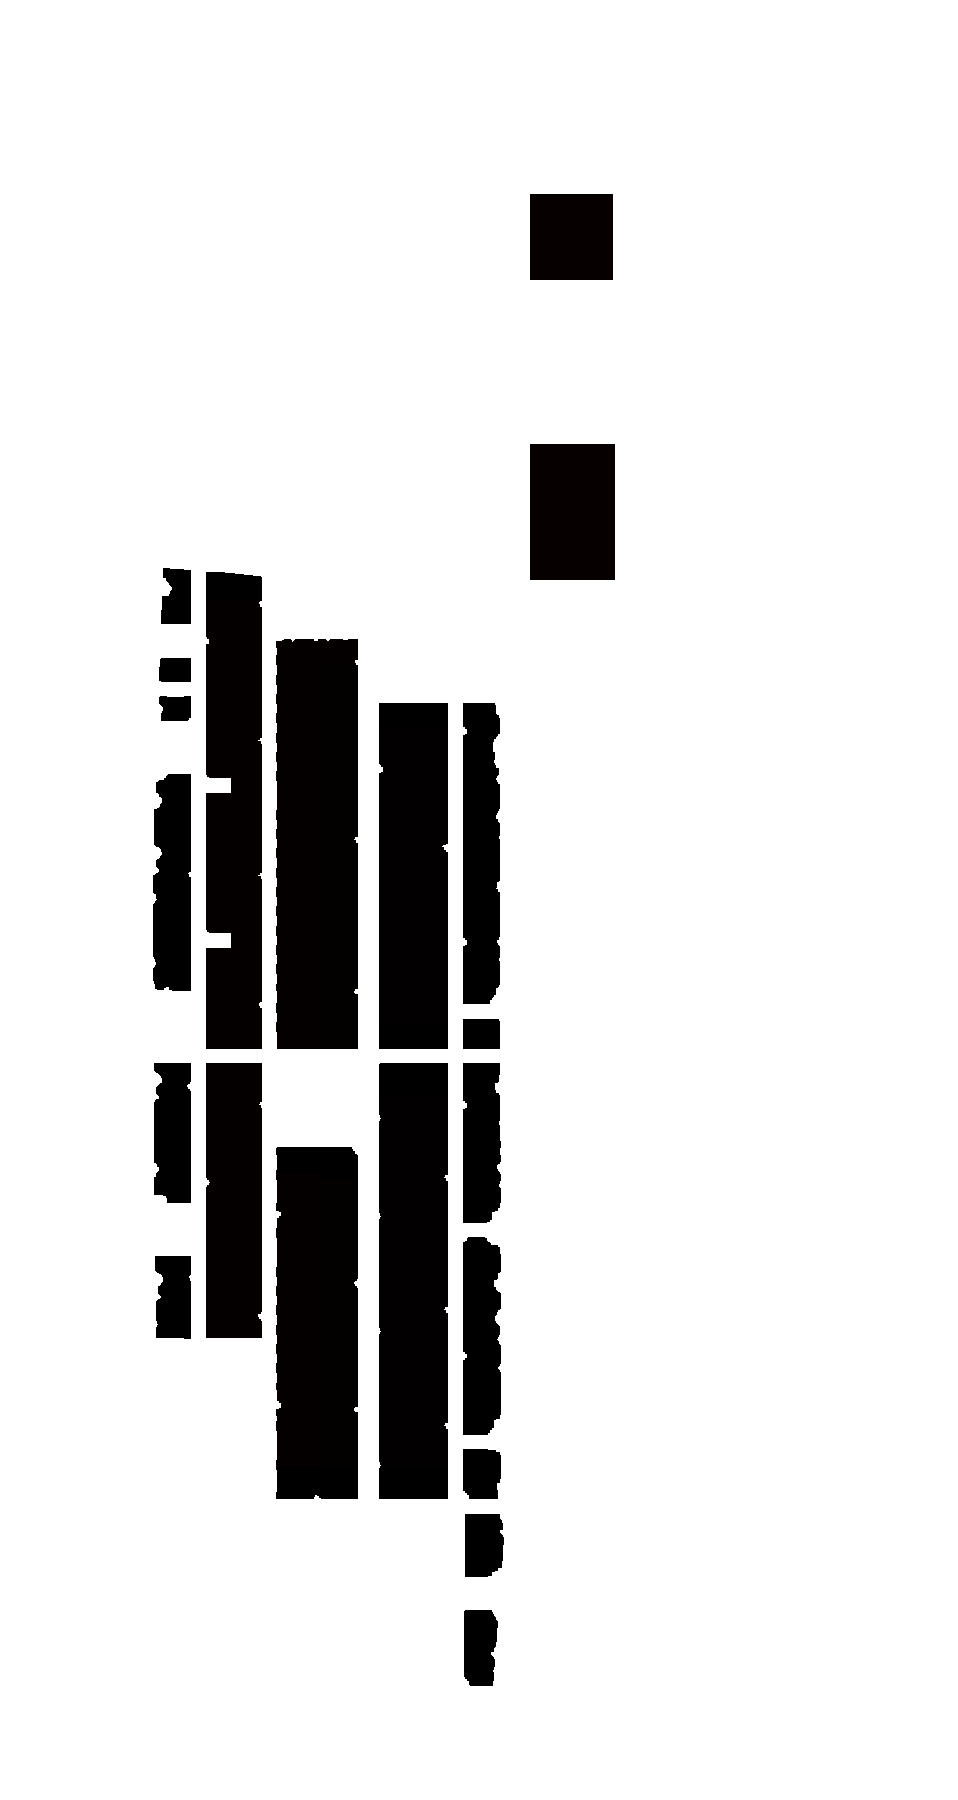
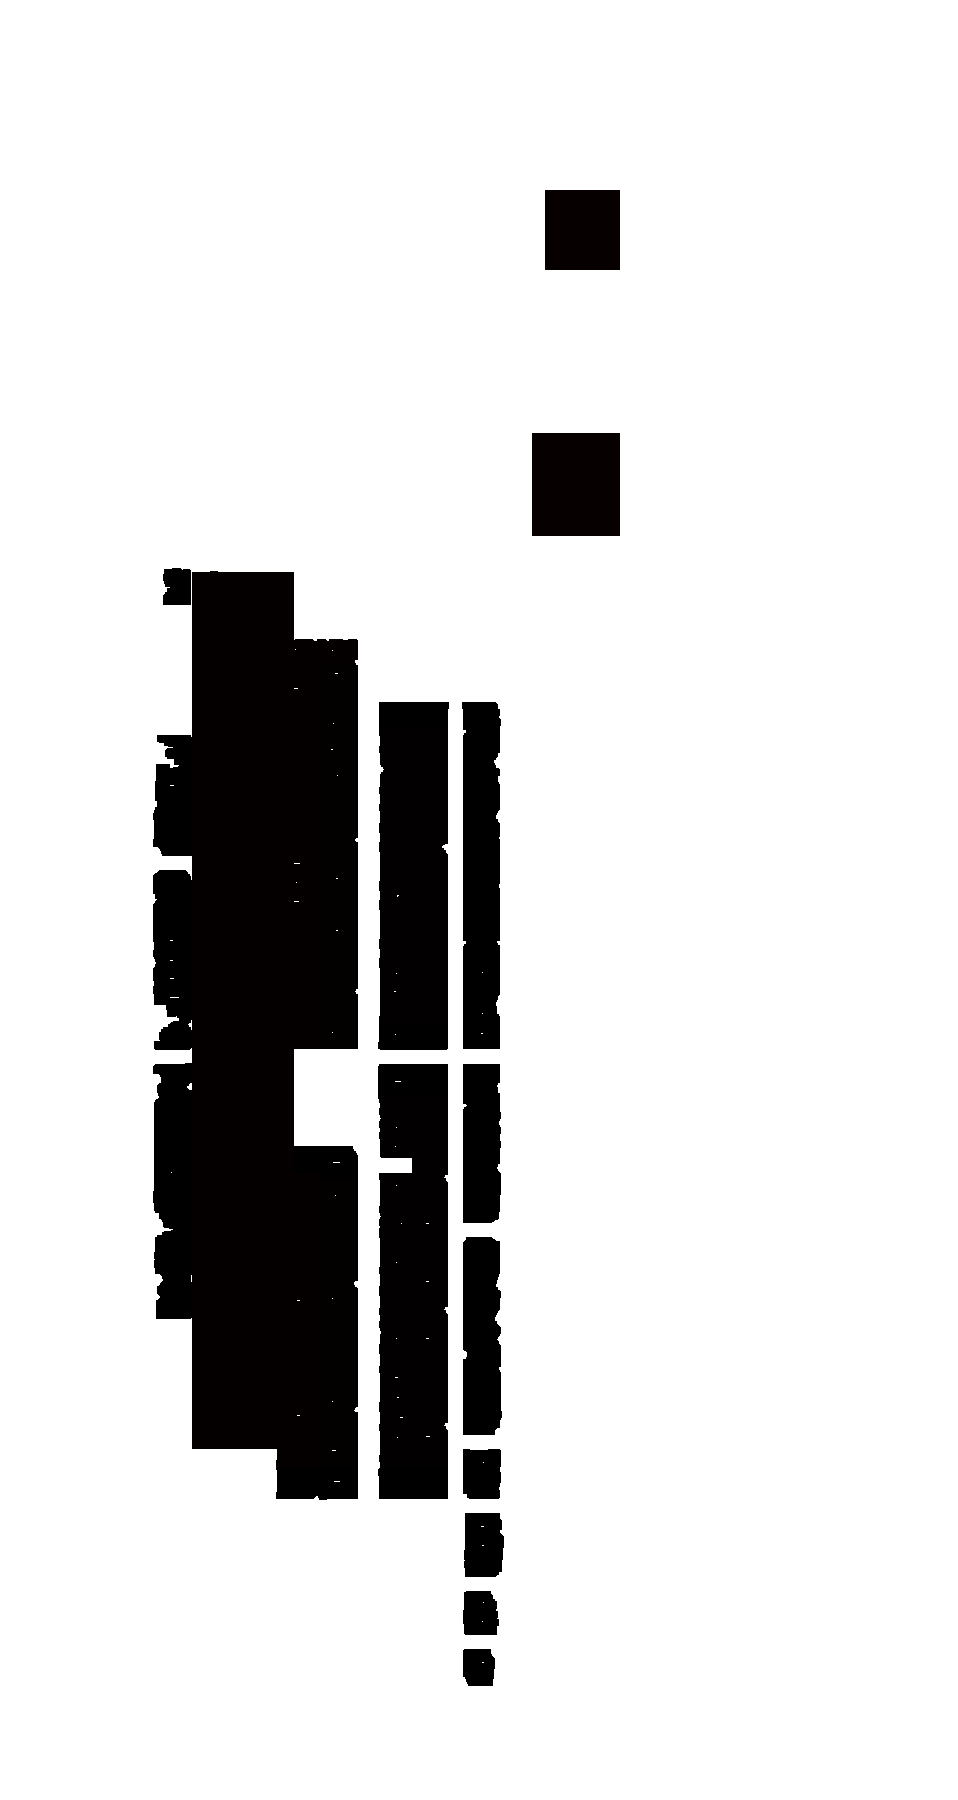
Clubhouse mobile redesign; new numbered master plan drawing with glow hover
Clubhouse (mobile only, desktop unchanged):
- Heading ("The Clubhouse" / "The soul of the community.") moves out
  of the image into a normal heading above it, matching every other
  section — brown eyebrow, black headline
- Description text now anchors near the top of the image (open sky/
  palm tree area) instead of vertically centered; smaller font
- Stats row pins to the bottom of the image, smaller font
- Achieved via duplicated head markup (.club2-head--mobile /
  --desktop) toggled by breakpoint, since desktop keeps the heading
  overlaid hero-style while mobile needs it in document flow

Master Plan: reprocessed against the updated "TRIVIK LAYOUT PLAN"
drawing (now shows an individual number on every plot):
- Re-sampled all 6 category colours from the new muted olive/grey/
  tan palette (completely different from the old cyan/pink/purple
  version)
- The two near-white categories (30x40ft and Commercial) are only
  ~8 RGB units apart and both close to the page background, so
  color-threshold matching was unreliable there — used manual
  region rectangles for both instead, same as before for Commercial
- Regenerated masterplan-layout(-mobile).webp, masterplan-hl-*.webp,
  and the hitmaps under their existing filenames — no code changes
  needed to pick them up
- Hover/tap highlight now adds a blurred warm-gold glow around the
  selected plot's outline in addition to the black ring, so the
  numbers read as glowing when a category is selected
[…]

diff --git a/client/src/styles/global.css b/client/src/styles/global.css
@@ -2390,9 +2390,14 @@ h3 {
 
 /* Clubhouse section */
 /* ===== Clubhouse — copy + a single full-width render ===== */
-/* full-bleed, hero-style: the clubhouse render fills the whole section,
-   copy sits over it on a dark scrim — same language as the site's Hero */
-.club2 {
+/* Desktop: full-bleed, hero-style — the clubhouse render fills the whole
+   frame, copy sits over it on a dark scrim, same language as the site's
+   Hero. Mobile: the heading moves above the image (like every other
+   section) and only the copy + stats stay overlaid on the render. */
+.club2 { position: relative; background: #F5F4ED; }
+.club2-head--mobile { display: none; }
+
+.club2-frame {
   position: relative;
   display: flex;
   align-items: center;
@@ -2416,19 +2421,24 @@ h3 {
     linear-gradient(100deg, rgba(10, 9, 6, 0.88) 0%, rgba(10, 9, 6, 0.66) 34%, rgba(10, 9, 6, 0.22) 62%, rgba(10, 9, 6, 0.02) 80%),
     linear-gradient(0deg, rgba(10, 9, 6, 0.45) 0%, rgba(10, 9, 6, 0) 32%);
 }
-.club2 .container { position: relative; z-index: 2; }
+.club2-frame-inner { position: relative; z-index: 2; }
 .club2-content { max-width: 620px; }
+.club2-head--desktop { display: block; }
 .club2-eyebrow {
   display: inline-block;
   font-size: 45px; font-weight: 700; letter-spacing: 2.4px; text-transform: uppercase;
-  color: #E7D9B4; margin-bottom: 12px;
+  margin-bottom: 12px;
 }
 .club2-head h3 {
   font-size: 38px; font-weight: 600; line-height: 1.12;
-  color: #fff;
   margin-bottom: 20px;
 }
-.club2-content p {
+.club2-head--desktop .club2-eyebrow { color: #E7D9B4; }
+.club2-head--desktop h3 { color: #fff; }
+.club2-head--mobile .club2-eyebrow { color: #8b6e4e; }
+.club2-head--mobile h3 { color: #2b2a26; }
+
+.club2-copy p {
   font-family: var(--font);
   font-size: 14.5px; line-height: 1.6; color: rgba(255, 255, 255, 0.86); margin-bottom: 12px;
   text-shadow: 0 2px 16px rgba(0, 0, 0, 0.3);
@@ -2444,20 +2454,40 @@ h3 {
 .club2-stat em { font-style: normal; font-size: 12.5px; color: rgba(255, 255, 255, 0.68); margin-top: 5px; display: block; }
 
 @media (max-width: 900px) {
-  /* the mobile crop opens onto sky — anchor the copy there instead of over
-     the entrance signage and pool deck lower in the frame */
-  .club2 { min-height: min(780px, 92vh); align-items: flex-start; padding-top: 6.5em; padding-bottom: 2.6em; }
+  .club2-head--mobile { display: block; text-align: center; padding: 2.6em 0 1.4em; }
+  .club2-head--desktop { display: none; }
+
+  /* the mobile crop opens onto sky at the top and quiet paving at the
+     bottom — copy anchors near the tree up top, stats pin to the base,
+     nothing covers the entrance signage or pool in the middle */
+  .club2-frame { display: block; min-height: min(560px, 66vh); padding: 0; }
   .club2-bg { object-position: center top; }
   .club2-scrim {
     background:
-      linear-gradient(180deg, rgba(10, 9, 6, 0.78) 0%, rgba(10, 9, 6, 0.5) 32%, rgba(10, 9, 6, 0.08) 56%, rgba(10, 9, 6, 0) 68%),
-      linear-gradient(0deg, rgba(10, 9, 6, 0.55) 0%, rgba(10, 9, 6, 0) 22%);
+      linear-gradient(180deg, rgba(10, 9, 6, 0.6) 0%, rgba(10, 9, 6, 0.12) 26%, rgba(10, 9, 6, 0) 40%, rgba(10, 9, 6, 0.08) 60%, rgba(10, 9, 6, 0.72) 100%);
   }
-  .club2-content { max-width: 100%; }
+  .club2-frame-inner.container { width: 100%; margin: 0; }
+  .club2-frame-inner {
+    position: absolute;
+    inset: 0;
+  }
+  .club2-content {
+    height: 100%;
+    max-width: 100%;
+    display: flex;
+    flex-direction: column;
+    justify-content: space-between;
+    padding: 1.3em 1.15em 1.1em;
+  }
+  .club2-copy p { font-size: 12px; line-height: 1.5; margin-bottom: 8px; }
+  .club2-stats { margin-top: 0; padding-top: 12px; gap: 14px; }
+  .club2-stat b { font-size: 17px; }
+  .club2-stat b span { font-size: 10px; }
+  .club2-stat em { font-size: 10px; margin-top: 3px; }
 }
 @media (max-width: 560px) {
-  .club2 { padding-top: 6em; min-height: min(700px, 88vh); }
-  .club2-stats { gap: 16px; flex-wrap: wrap; }
+  .club2-frame { min-height: min(520px, 76vh); }
+  .club2-stats { gap: 12px; }
 }
 
 

diff --git a/client/src/components/Clubhouse.jsx b/client/src/components/Clubhouse.jsx
@@ -9,41 +9,55 @@ const STATS = [
 export default function Clubhouse() {
   return (
     <section className="clubhouse-section club2" id="clubhouse">
-      <picture>
-        {/* portrait crop on phones — open sky up top leaves room for the copy
-            without covering the entrance signage or the pool deck below */}
-        <source media="(max-width: 900px)" srcSet="images/clubhouse-entry-mobile.webp" />
-        <img src="images/clubhouse-entry.webp" alt="Trivik Courtyard clubhouse" className="club2-bg" />
-      </picture>
-      <span className="club2-scrim" aria-hidden="true" />
-
+      {/* mobile-only heading — sits above the image like every other section;
+          hidden on desktop, where the heading is overlaid on the render instead */}
       <div className="container">
-        <div className="club2-content">
-          <div className="club2-head">
-            <span className="club2-eyebrow">The Clubhouse</span>
-            <h3>The soul of the community.</h3>
-          </div>
+        <div className="club2-head club2-head--mobile">
+          <span className="club2-eyebrow">The Clubhouse</span>
+          <h3>The soul of the community.</h3>
+        </div>
+      </div>
 
-          <p>
-            Fourteen thousand square feet, built for one purpose: to turn a layout into a
-            neighbourhood, and neighbours into the family next door.
-          </p>
-          <p>
-            Mornings on the yoga deck while the pool catches the first light; afternoons over coffee at
-            the café; evenings in the party hall — and on clear nights, the stargazing deck. It is
-            quietly thoughtful, too: wheelchair-accessible throughout and lift-served, with a steam
-            room and sauna for tired days and an infirmary for anxious ones.
-          </p>
+      <div className="club2-frame">
+        <picture>
+          {/* portrait crop on phones — open sky up top leaves room for the copy
+              without covering the entrance signage or the pool deck below */}
+          <source media="(max-width: 900px)" srcSet="images/clubhouse-entry-mobile.webp" />
+          <img src="images/clubhouse-entry.webp" alt="Trivik Courtyard clubhouse" className="club2-bg" />
+        </picture>
+        <span className="club2-scrim" aria-hidden="true" />
 
-          <div className="club2-stats">
-            {STATS.map((s) => (
-              <div className="club2-stat" key={s.l}>
-                <b>
-                  {s.v} <span>{s.u}</span>
-                </b>
-                <em>{s.l}</em>
-              </div>
-            ))}
+        <div className="club2-frame-inner container">
+          <div className="club2-content">
+            {/* desktop-only heading — overlaid on the image, hero-style */}
+            <div className="club2-head club2-head--desktop">
+              <span className="club2-eyebrow">The Clubhouse</span>
+              <h3>The soul of the community.</h3>
+            </div>
+
+            <div className="club2-copy">
+              <p>
+                Fourteen thousand square feet, built for one purpose: to turn a layout into a
+                neighbourhood, and neighbours into the family next door.
+              </p>
+              <p>
+                Mornings on the yoga deck while the pool catches the first light; afternoons over coffee at
+                the café; evenings in the party hall — and on clear nights, the stargazing deck. It is
+                quietly thoughtful, too: wheelchair-accessible throughout and lift-served, with a steam
+                room and sauna for tired days and an infirmary for anxious ones.
+              </p>
+            </div>
+
+            <div className="club2-stats">
+              {STATS.map((s) => (
+                <div className="club2-stat" key={s.l}>
+                  <b>
+                    {s.v} <span>{s.u}</span>
+                  </b>
+                  <em>{s.l}</em>
+                </div>
+              ))}
+            </div>
           </div>
         </div>
       </div>

diff --git a/client/src/data/masterPlanCategories.js b/client/src/data/masterPlanCategories.js
@@ -1,15 +1,16 @@
 // Plot-size categories for the Master Plan section, colour-sampled directly
-// from the sanctioned "TRIVIK LAYOUT PLAN" drawing's own legend. `key` maps
-// a category to its images/masterplan-hl-{key}.webp highlight overlay and to
+// from the sanctioned "TRIVIK LAYOUT PLAN" drawing's own legend (updated
+// revision — numbered plots, muted olive/tan/grey palette). `key` maps a
+// category to its images/masterplan-hl-{key}.webp highlight overlay and to
 // the pixel index baked into images/masterplan-hitmap.png (odd=1, s1=2,
 // s3=3, s4=4, s5=5, comm=6 — see the hitmap's R channel).
 export const PLAN_CATEGORIES = [
-  { key: 's5', color: '#8DFFFF', label: '30 × 40 ft · 1,200 sq.ft', value: '74' },
-  { key: 's1', color: '#ABACFF', label: '30 × 50 ft · 1,500 sq.ft', value: '68' },
-  { key: 's4', color: '#F39B9A', label: '30 × 60 ft · 1,800 sq.ft', value: '37' },
-  { key: 's3', color: '#FEA8FF', label: '40 × 60 ft · 2,400 sq.ft', value: '26' },
-  { key: 'odd', color: '#BB8AB9', label: 'Odd Plots (as per site edge)', value: '100' },
-  { key: 'comm', color: '#C9BEA9', label: 'Retail & Commercial', value: '02' },
+  { key: 's5', color: '#E8DCC8', label: '30 × 40 ft · 1,200 sq.ft', value: '74' },
+  { key: 's1', color: '#ABACA6', label: '30 × 50 ft · 1,500 sq.ft', value: '68' },
+  { key: 's4', color: '#B69B7E', label: '30 × 60 ft · 1,800 sq.ft', value: '37' },
+  { key: 's3', color: '#A29572', label: '40 × 60 ft · 2,400 sq.ft', value: '26' },
+  { key: 'odd', color: '#696F55', label: 'Odd Plots (as per site edge)', value: '100' },
+  { key: 'comm', color: '#D6C4A8', label: 'Retail & Commercial', value: '02' },
 ]
 
 export const PLAN_CATEGORY_BY_INDEX = {
